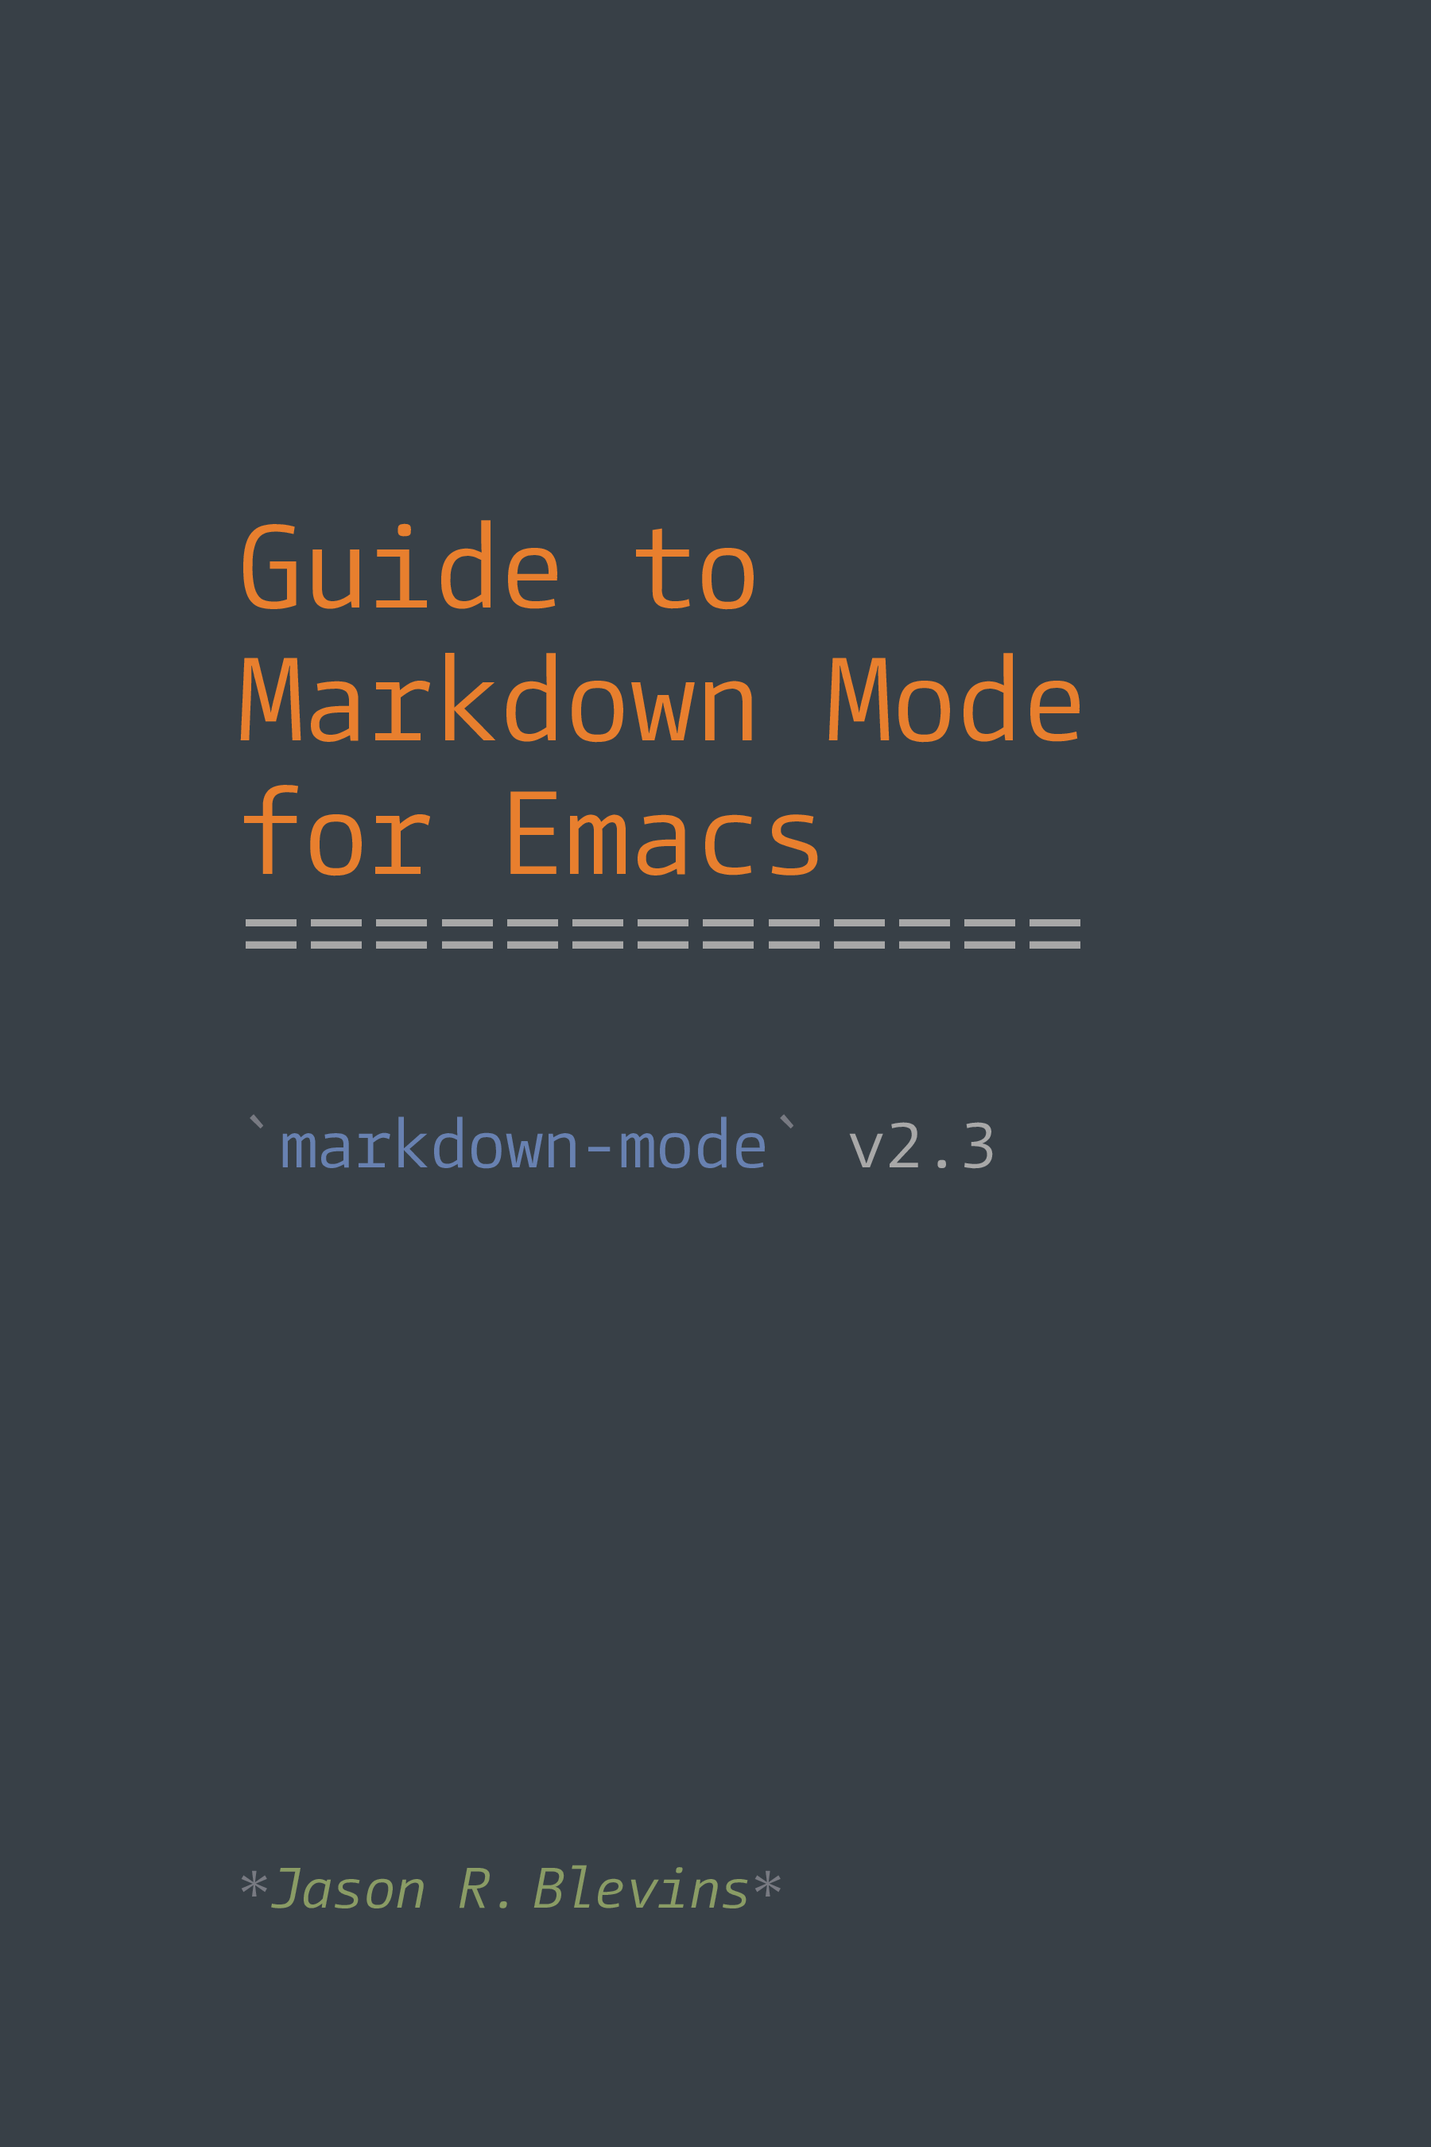
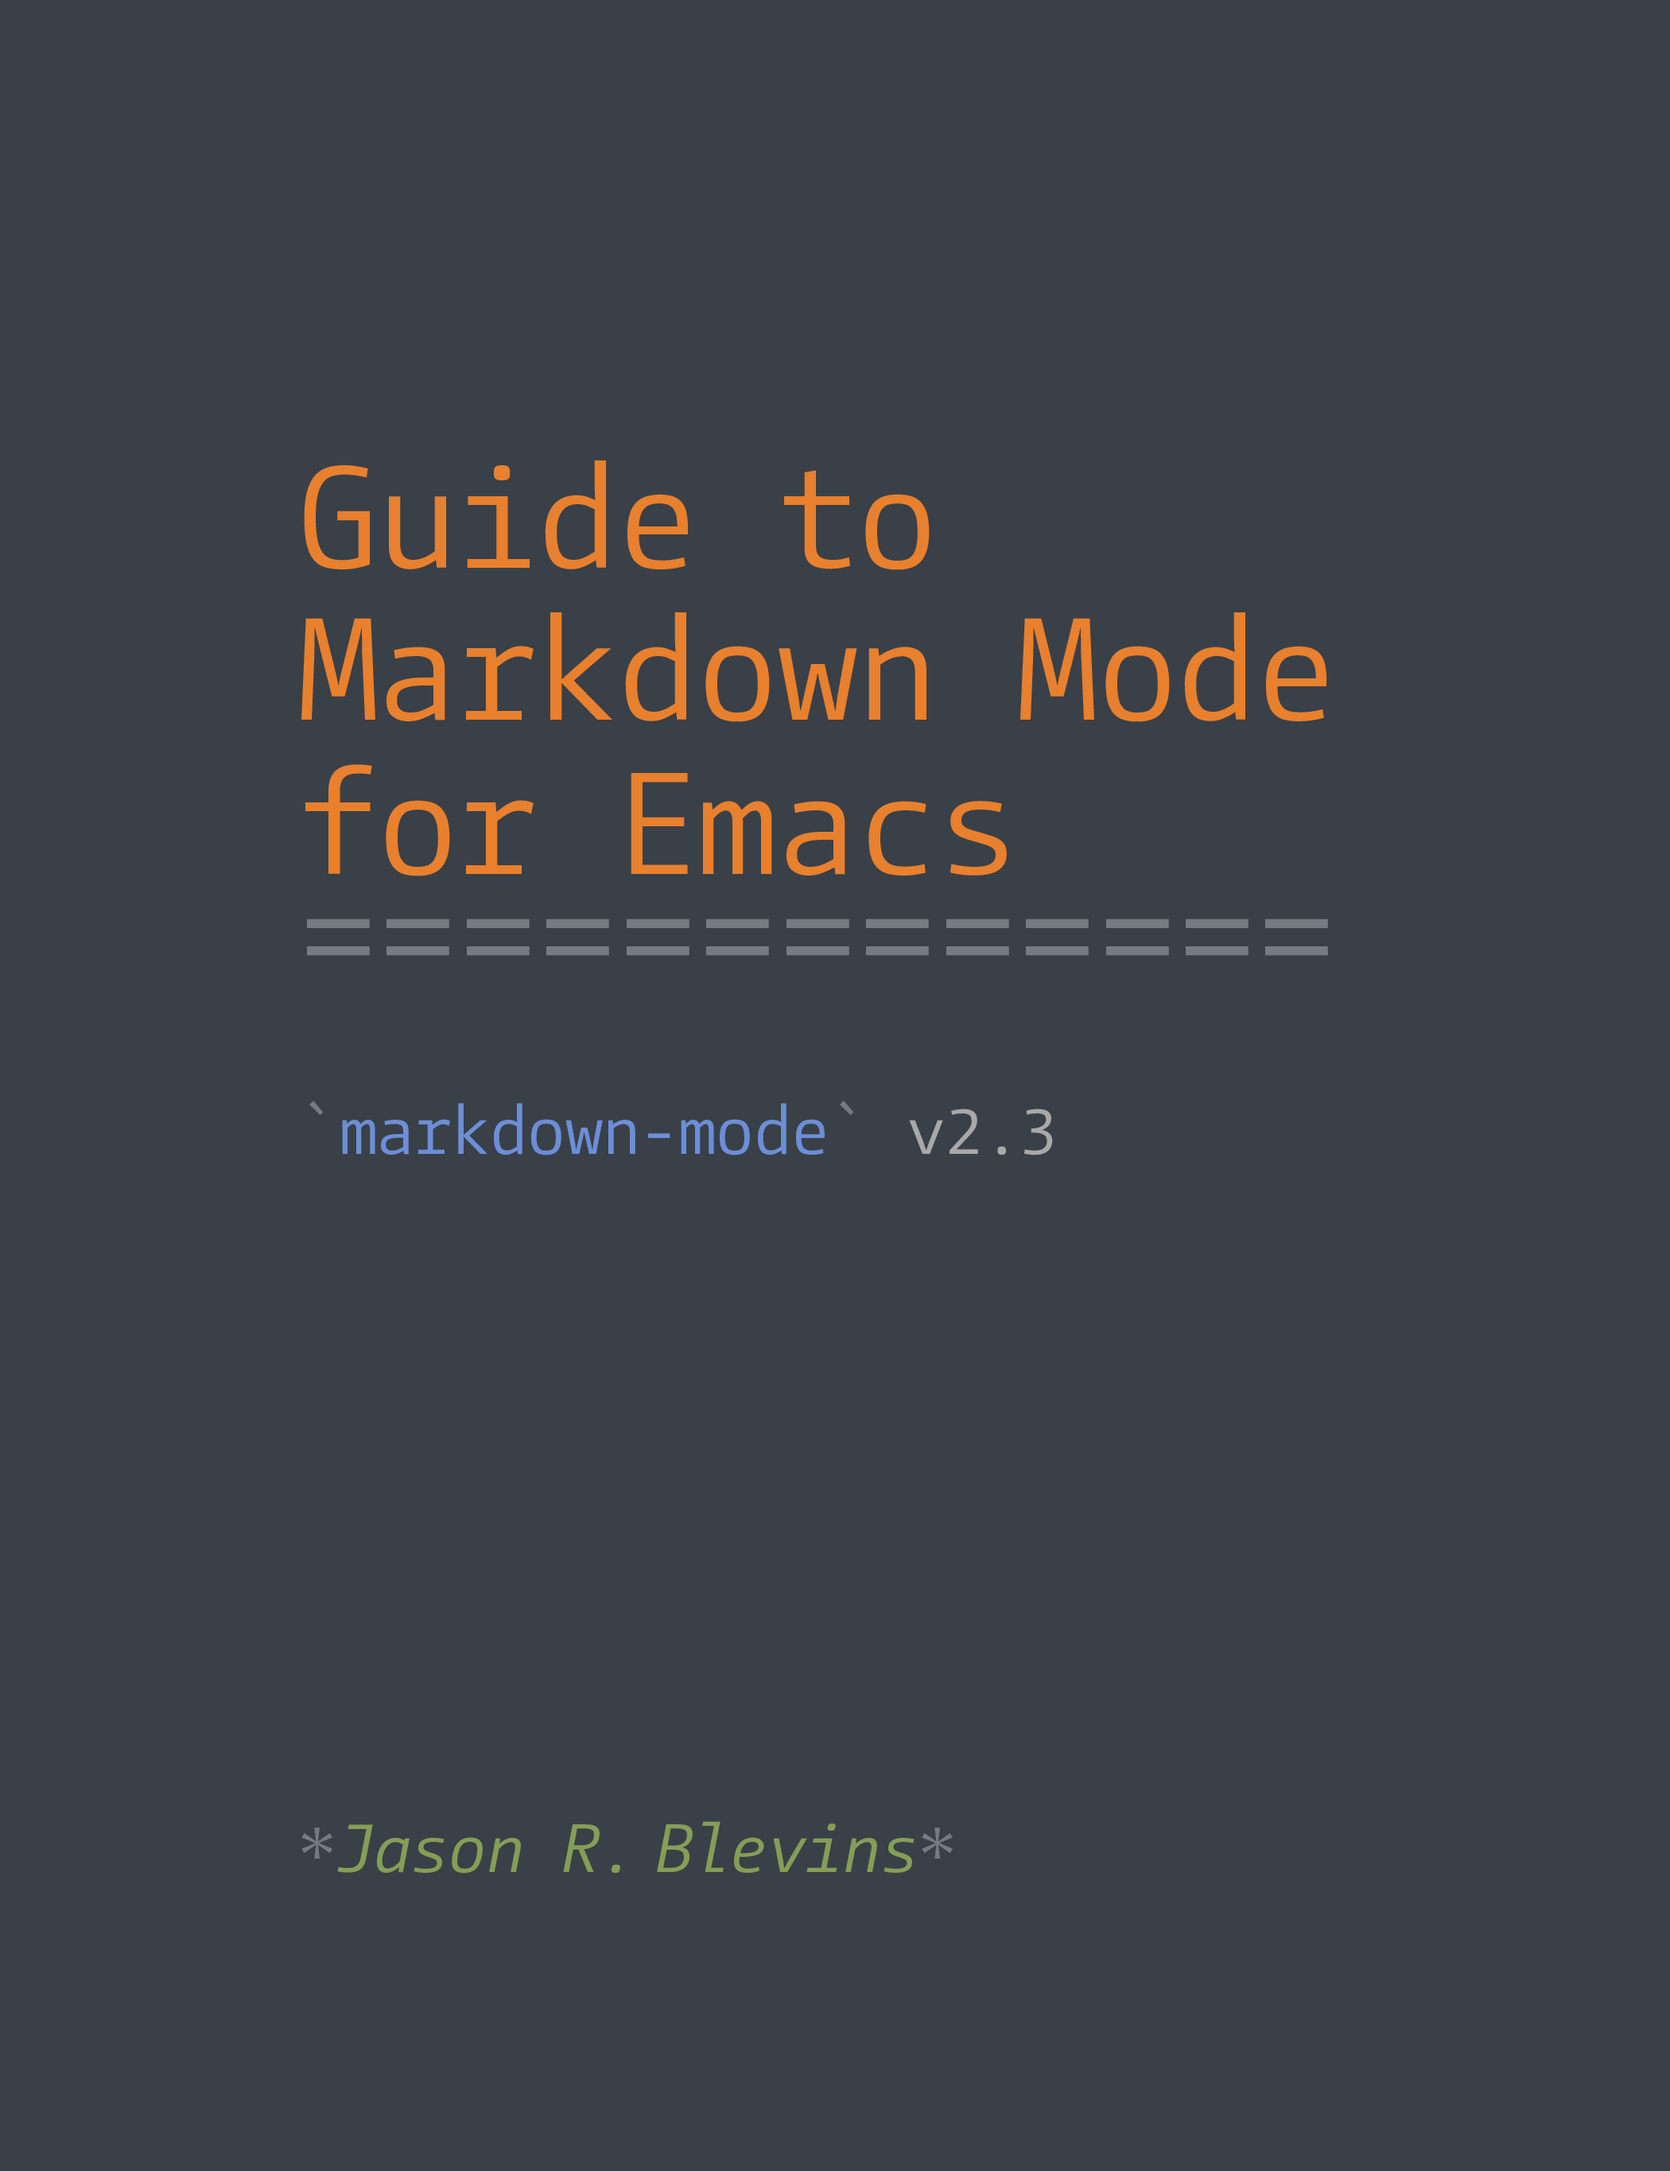
Update title page

diff --git a/manuscript/images/title_page.tex b/manuscript/images/title_page.tex
@@ -1,5 +1,5 @@
 % LaTeX title page
-% Jason R. Blevins <jrblevin@sdf.org>
+% Jason R. Blevins <jblevins@xbeta.org>
 %
 % xelatex title_page.tex
 % convert -density 300 title_page.pdf -quality 100 title_page.png
@@ -7,7 +7,7 @@
 \documentclass[12pt]{article}
 
 \usepackage{hyperref}
-\usepackage[paperwidth=6in,paperheight=9in,margin=1in]{geometry}
+\usepackage[paperwidth=7in,paperheight=9.1in,margin=1.25in]{geometry}
 \usepackage{fontspec}
 \usepackage{xcolor}
 
@@ -23,23 +23,24 @@
 
 \setmainfont[BoldFont=* Bold,ItalicFont=* Italic]{CamingoCode}
 \setmonofont{Source Code Pro} % to fix issue with backquotes
-%\setmainfont[BoldFont=* Bold,ItalicFont=* Italic]{Source Code Pro}
-%\setmainfont[BoldFont=Operator Mono Bold,ItalicFont=* Italic]{Operator Mono Book}
-%\setmainfont{Fira Mono}
-%\setmainfont{Inconsolata}
 
 % Colors
-\definecolor{GuideBlack}{rgb}{0.21,0.24,0.26}
-\definecolor{GuideBlue}{rgb}{0.34,0.45,0.66}
-\definecolor{GuideGreen}{rgb}{0.49,0.57,0.33}
-\definecolor{GuideYellow}{rgb}{0.96,0.67,0.20}
-\definecolor{GuideOrange}{rgb}{0.91,0.50,0.18}
-\definecolor{GuideGray}{rgb}{0.47,0.48,0.51}
-\definecolor{GuideRed}{rgb}{0.59,0.22,0.19}
-\definecolor{GuideLightGray}{rgb}{0.66,0.66,0.66}
-\definecolor{GuideDarkGray}{rgb}{0.22,0.25,0.28}
-\definecolor{GuideTeal}{rgb}{0.50,0.91,0.97}
-\definecolor{GuideWhite}{rgb}{1,1,1}
+\definecolor{GuideBlue}{HTML}{6C8ED8}
+\definecolor{GuideGreen}{HTML}{859e56}
+\definecolor{GuideOrange}{HTML}{E8802E}
+\definecolor{GuideGray}{HTML}{787A82}
+\definecolor{GuideLightGray}{HTML}{A8A8A8}
+\definecolor{GuideDarkGray}{HTML}{3A4048}
+
+% Style commands
+\newfontfamily\titleface{CamingoCode}
+\newcommand{\titlefont}[1]{{\titleface\fontsize{44}{44}\selectfont\color{GuideOrange} #1}}
+\newcommand{\underlinefont}[1]{{\titleface\fontsize{44}{44}\selectfont\color{GuideGray} #1}}
+\newfontfamily\codeface{CamingoCode}
+\newcommand{\codefont}[1]{{\codeface\color{GuideBlue} #1}}
+\newcommand{\markupfont}[1]{{\color{GuideGray} #1}}
+\newcommand{\authorfont}[1]{\textit{{\color{GuideGreen} #1}}}
+\newcommand{\backquote}{\color{GuideGray}{\texttt{\`{}}}} % Fix backquote issue
 
 % Don't indent paragraphs.
 \setlength\parindent{0em}
@@ -49,40 +50,29 @@
 \pagestyle{empty}
 \pagecolor{GuideDarkGray}
 
-\vspace*{1in}
-
-%\begin{centering}
+\vspace*{0.5in}
 
 \noindent
-{\fontsize{36}{36}\selectfont\color{GuideOrange}{Guide to}}\par
-
+\titlefont{Guide to}\par
 \vspace{1em}
-
 \noindent
-{\fontsize{36}{36}\selectfont\color{GuideOrange}{Markdown Mode}}\par
-
+\titlefont{Markdown Mode}\par
 \vspace{1em}
-
 \noindent
-{\fontsize{36}{36}\selectfont\color{GuideOrange}{for Emacs}}\par
-
+\titlefont{for Emacs}\par
 \vspace{1em}
+\noindent
+\underlinefont{=============}\par
+
+\vspace*{3em}
 
 \noindent
-{\fontsize{36}{36}\selectfont\color{GuideLightGray}{=============}}\par
-
-%\end{centering}
-
-\vspace*{0.6in}
-
-\noindent
-{\LARGE \color{GuideGray}{\texttt{\`{}}}\color{GuideBlue!90}{markdown-mode}\color{GuideGray}{\texttt{\`{}}} \color{GuideLightGray}{v2.3}}
-
+{\LARGE \backquote{}\codefont{markdown-mode}\backquote{} \color{GuideLightGray}{v2.3}}
 
 \vspace*{\fill}
 
 \noindent
-{\Large\color{GuideGray}{*}\textit{\color{GuideGreen!90}{Jason R. \kern-6pt Blevins}}\color{GuideGray}{*}}\par
+{\LARGE\markupfont{*}\authorfont{Jason R. \kern-6pt Blevins}\markupfont{*}}\par
 
 \clearpage
 
